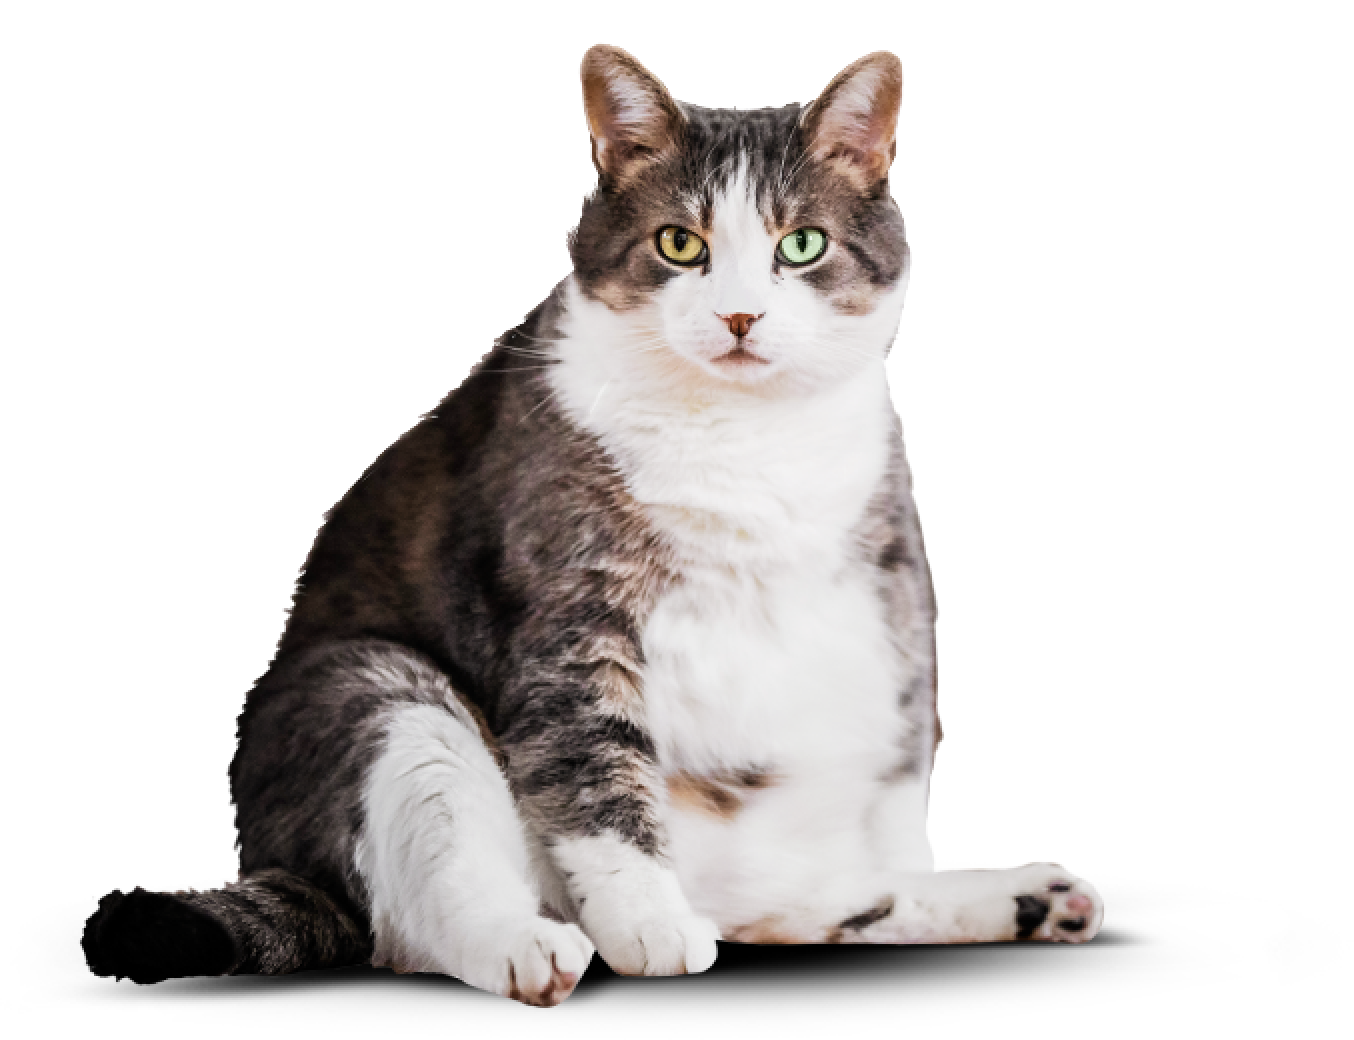
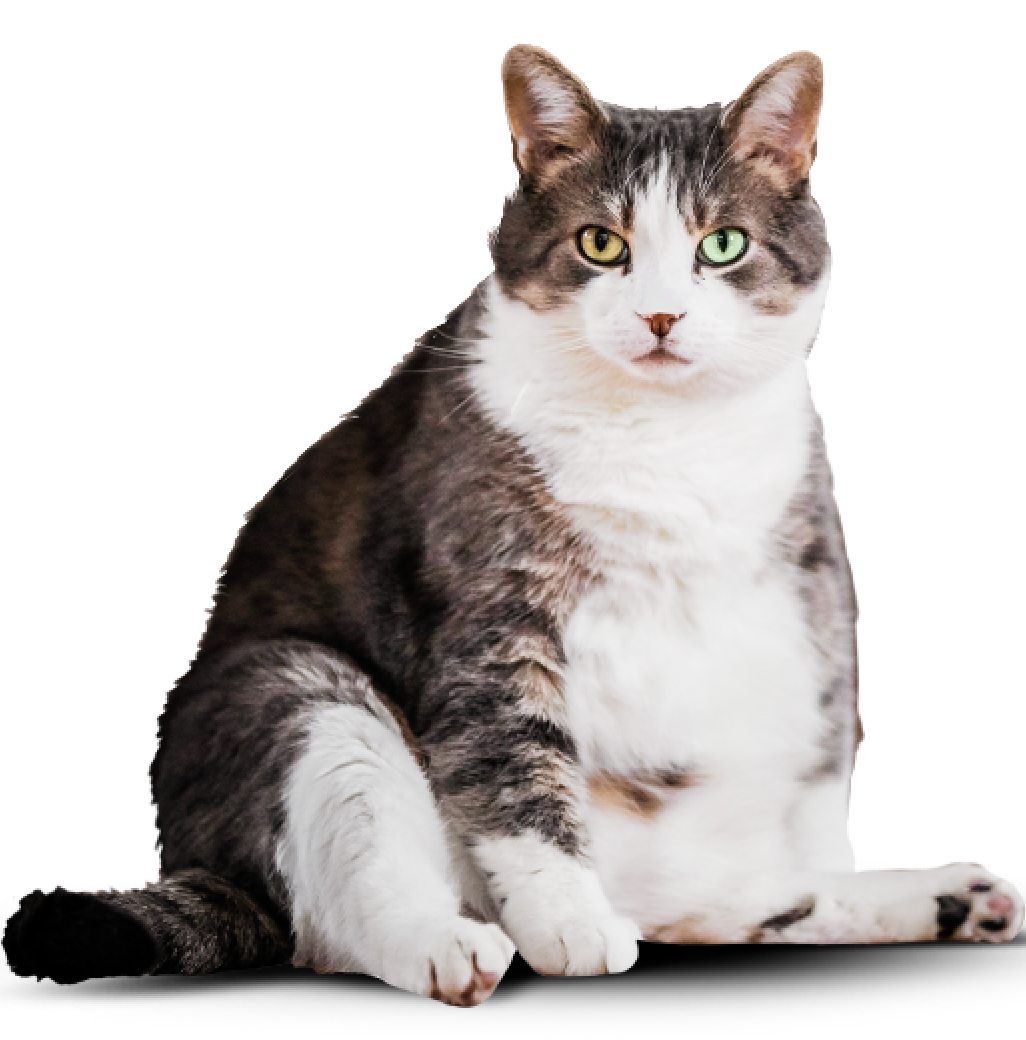
правка

diff --git a/source/index.html b/source/index.html
@@ -144,15 +144,19 @@
               <div class="example__cat-image">
                 <div class="example__cat before">
                   <picture>
-                    <source srcset="img/different/mobile/before-mobile.png 1x, img/different/mobile/before-mobile2x.png 2x" media="(min-width: 320px) and (max-width: 767px)">
-                    <img src="img/different/cat-fat.png" srcset="img/different/cat-fat2x.png 2x" alt="упитынный кот">
+                    <source type="image/webp" srcset="img/different/cat-fat.webp 1x, img/different/cat-fat2x.webp 2x" media="(min-width: 768px)">
+                    <source type="image/webp" srcset="img/different/mobile/before-mobile.webp 1x, img/different/mobile/before-mobile2x.webp 2x" media="(min-width: 320px)">
+                    <source srcset="img/different/cat-fat.png 1x, img/different/cat-fat2x.png 2x" media="(min-width: 320px) and (max-width: 767px)">
+                    <img src="img/different/mobile/before-mobile.png" srcset="img/different/mobile/before-mobile2x.png 2x" alt="упитынный кот">
                   </picture>
                 </div>
                 <div class="example__cat after">
                   <div class="after__wrapper">
                     <picture>
-                      <source srcset="img/different/mobile/after-mobile.png 1x, img/different/mobile/after-mobile2x.png 2x" media="(min-width: 320px) and (max-width: 767px)">
-                      <img src="img/different/cat-skinny.png" srcset="img/different/cat-skinny2x.png 2x" alt="худой кот">
+                      <source type="image/webp" srcset="img/different/cat-skinny.webp 1x, img/different/cat-skinny2x.webp 2x" media="(min-width: 768px)">
+                      <source type="image/webp" srcset="img/different/mobile/after-mobile.webp 1x, img/different/mobile/after-mobile2x.webp 2x" media="(min-width: 320px)">
+                      <source srcset="img/different/cat-skinny.png 1x, img/different/cat-skinny2x.png 2x" media="(max-width: 768px)">
+                      <img src="img/different/mobile/after-mobile.png" srcset="img/different/mobile/after-mobile2x.png 2x" alt="худой кот">
                     </picture>
                   </div>
                 </div>
@@ -186,6 +190,9 @@
             </div>
             <div class="our-address__map-wrapper">
               <picture>
+                <source type="image/webp" srcset="/img/background/background-desktop.webp 1x, /img/background/background-desktop2x.webp 2x" media="(min-width: 1280px)">
+                <source type="image/webp" srcset="/img/background/background-tablet.webp 1x, /img/background/background-tablet2x.webp 2x" media="(min-width: 768px)">
+                <source type="image/webp" srcset="img/background/location-mobile.webp 1x, img/background/location-mobile2x.webp 2x" media="(min-width: 320px)">
                 <source srcset="/img/background/background-desktop.png 1x, /img/background/background-desktop2x.png 2x" media="(min-width: 1280px)">
                 <source srcset="/img/background/background-tablet.png 1x, /img/background/background-tablet2x.png 2x" media="(min-width: 768px)">
                 <img class="our-address__map-image" src="img/background/location-mobile.png" srcset="img/background/location-mobile2x.png 2x" alt="карта как нас найти">

diff --git a/source/catalog.html b/source/catalog.html
@@ -346,6 +346,9 @@
             </div>
             <div class="our-address__map-wrapper">
               <picture>
+                <source type="image/webp" srcset="/img/background/background-desktop.webp 1x, /img/background/background-desktop2x.webp 2x" media="(min-width: 1280px)">
+                <source type="image/webp" srcset="/img/background/background-tablet.webp 1x, /img/background/background-tablet2x.webp 2x" media="(min-width: 768px)">
+                <source type="image/webp" srcset="img/background/location-mobile.webp 1x, img/background/location-mobile2x.webp 2x" media="(min-width: 320px)">
                 <source srcset="/img/background/background-desktop.png 1x, /img/background/background-desktop2x.png 2x" media="(min-width: 1280px)">
                 <source srcset="/img/background/background-tablet.png 1x, /img/background/background-tablet2x.png 2x" media="(min-width: 768px)">
                 <img class="our-address__map-image" src="img/background/location-mobile.png" srcset="img/background/location-mobile2x.png 2x" alt="карта как нас найти">

diff --git a/source/form.html b/source/form.html
@@ -167,6 +167,9 @@
             </div>
             <div class="our-address__map-wrapper">
               <picture>
+                <source type="image/webp" srcset="/img/background/background-desktop.webp 1x, /img/background/background-desktop2x.webp 2x" media="(min-width: 1280px)">
+                <source type="image/webp" srcset="/img/background/background-tablet.webp 1x, /img/background/background-tablet2x.webp 2x" media="(min-width: 768px)">
+                <source type="image/webp" srcset="img/background/location-mobile.webp 1x, img/background/location-mobile2x.webp 2x" media="(min-width: 320px)">
                 <source srcset="/img/background/background-desktop.png 1x, /img/background/background-desktop2x.png 2x" media="(min-width: 1280px)">
                 <source srcset="/img/background/background-tablet.png 1x, /img/background/background-tablet2x.png 2x" media="(min-width: 768px)">
                 <img class="our-address__map-image" src="img/background/location-mobile.png" srcset="img/background/location-mobile2x.png 2x" alt="карта как нас найти">

diff --git a/source/sass/blocks/example.scss b/source/sass/blocks/example.scss
@@ -311,11 +311,11 @@
   left: -20px;
 
   @media (min-width: $tablet-width) {
-    left: 40px;
+    left: 56px;
   }
 
   @media (min-width: $desktop-width) {
-    left: -17px;
+    left: 0;
     top: 3px;
   }
 }
@@ -418,14 +418,14 @@
   margin: 3px 0 0 0;
 
   @media (min-width: $tablet-width) {
-    height: 34px;
-    width: 34px;
+    height: 31px;
+    width: 31px;
     border-radius: 50%;
     background: $basic-green;
-    border: 13px solid $basic-white;
+    border: 12px solid $basic-white;
     cursor: pointer;
     box-shadow: 0 0 0 1px $special-light-grey3, 0 1px 3px $special-light-grey3;
-    margin-top: -14px;
+    margin-top: -13px;
 
     &:hover {
       box-shadow: 0 0 0 1px $special-light-grey3, 0 2px 4px $special-light-grey3;
@@ -470,7 +470,7 @@
     width: 9px;
     border-radius: 50%;
     background: $basic-green;
-    border: 14px solid $basic-white;
+    border: 11px solid $basic-white;
     cursor: pointer;
     box-shadow: 0 0 0 1px $special-light-grey3, 0 1px 3px $special-light-grey3;
     margin-top: -14px;
